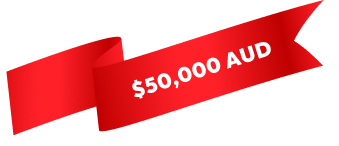
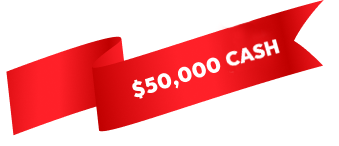
-

Changed region(s): [[0.649, 0.274, 0.826, 0.4658], [0.708, 0.137, 0.7375, 0.1644], [0.6785, 0.1644, 0.708, 0.1918]]

diff --git a/src/sections/evlanding/paradise/winA.jsx b/src/sections/evlanding/paradise/winA.jsx
@@ -83,10 +83,10 @@ const WinA = ({ property, className, style }) => {
           </div>
           <div className="text-center mt-16 relative origin-bottom -rotate-[2.54deg] max-lg:mt-[-50px] max-lg:ml-[100px]">
             <p className="font-['Neuething'] text-4xl drop-shadow-[2px_-2px_0px_rgba(255,255,255)] max-md:text-[19px]">
-              Or <span className="text-4xl max-md:text-[19px] ">50000</span>
+              Or <span className="text-4xl max-md:text-[19px] ">$50000</span>
             </p>
             <p className="font-['Neuething'] font-black text-4xl mt-4 max-md:mt-0 drop-shadow-[2px_-2px_0px_rgba(255,255,255)] max-md:text-[19px] ">
-              USD CASH
+              CASH
             </p>
             <div className="bg-[#74E486EE] w-[126px] h-[126px] rounded-full absolute top-0 left-[50px] z-[-1] max-md:w-[74px] max-md:h-[74px]"></div>
           </div>

diff --git a/src/sections/evlanding/hero/hero.jsx b/src/sections/evlanding/hero/hero.jsx
@@ -52,7 +52,7 @@ export default function Hero() {
         <div className="flex justify-center max-md:overflow-hidden ">
           <div className="max-md:flex max-md:justify-center">
             <img src={car1} alt="car1" className="car1 max-md:w-[224px] max-md:h-[128px]" />
-            <img src={car2} alt="car2" className="md:mt-[-74px] max-md:w-[300px] max-md:h-[186px] max-md:ml-[-100px]" />
+            <img src={car2} alt="car2" className="md:mt-[-74px] max-md:w-[300px] max-md:h-[186px] max-md:ml-[-50px]" />
           </div>
         </div>
       </div>
